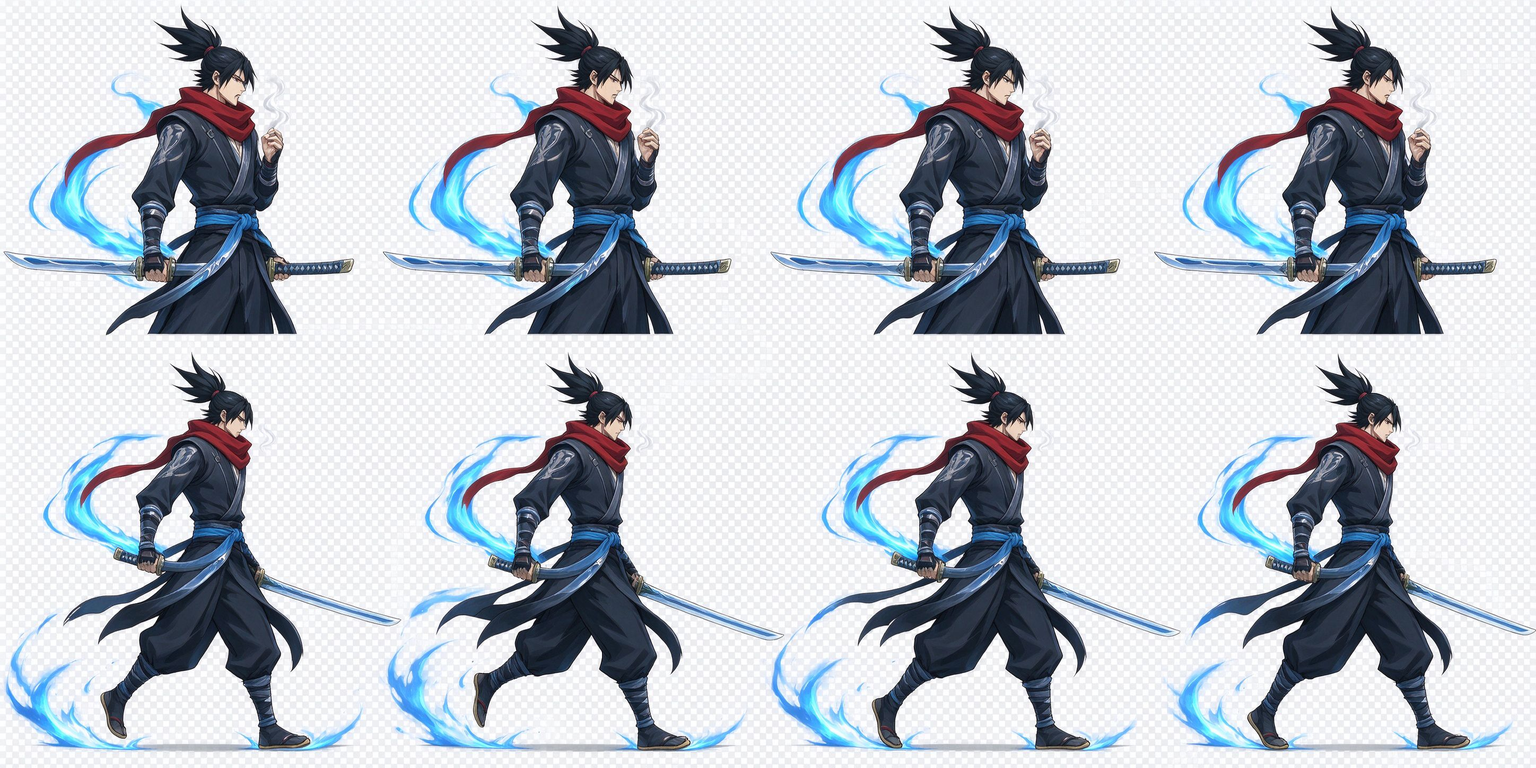
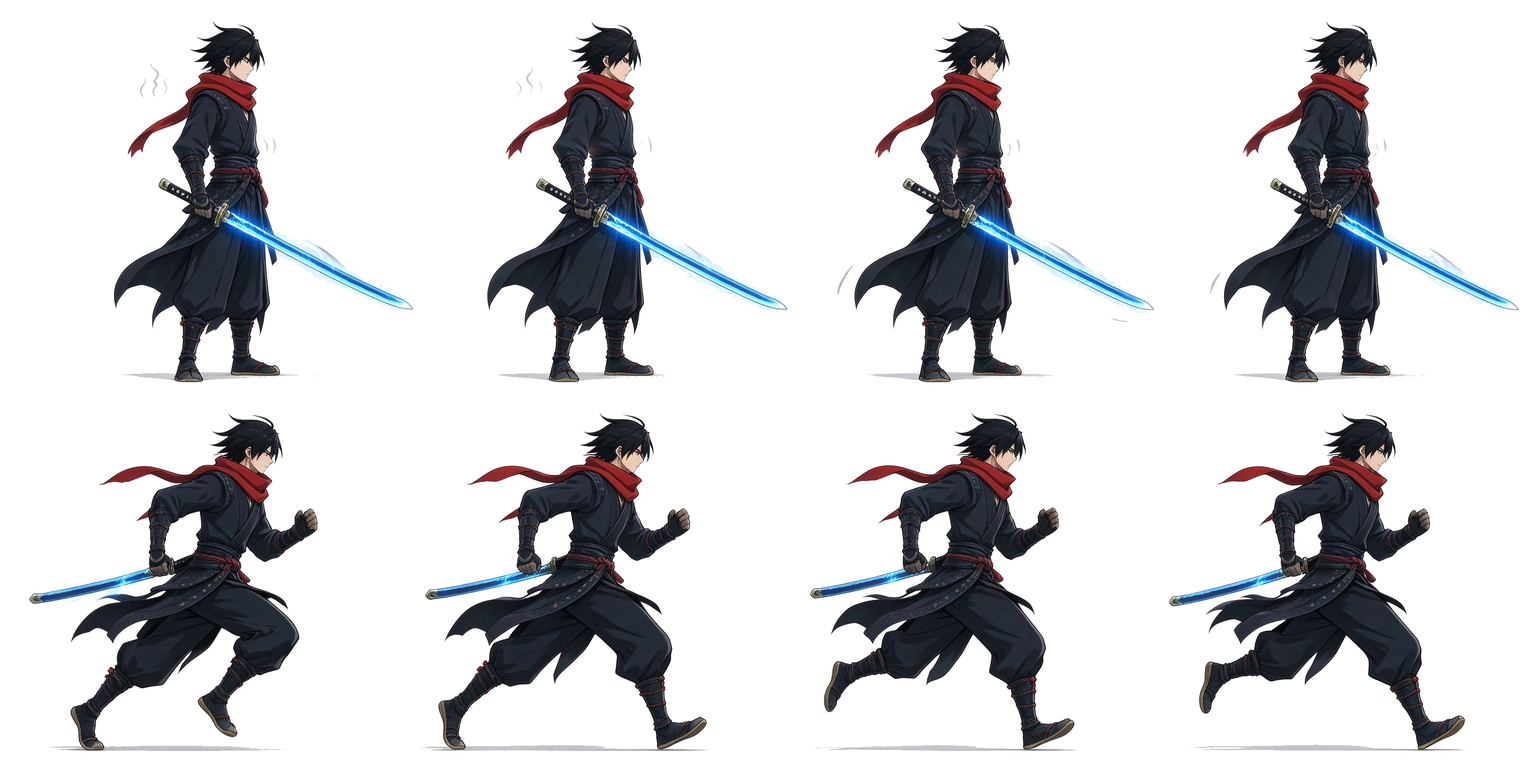
feat: 新sprite sheet帧动画(去白边)+待机4帧走路4帧

diff --git a/yasuo-run.html b/yasuo-run.html
@@ -1254,41 +1254,60 @@ function draw(){
     }
   }
 
-  // 玩家
+  // 玩家 - sprite sheet帧动画
+  var sheet = IMG.yasuo_sheet;
   var im3 = IMG.yasuo;
-  var ps = 85;
-  var pDash = 0;
-  if(player.attackAnim > 0){ pDash = Math.sin(player.attackAnim / 0.18 * Math.PI) * 18; }
-  var pDrawX = player.x + Math.cos(player.attackDir) * pDash;
-  var pDrawY = player.y + (player.moving ? Math.sin(tNow*12)*-4 : Math.sin(tNow*2.5)*2);
-  var pLean = player.moving ? Math.sin(tNow*12)*0.1 : 0;
-  // 阴影
-  ctx.fillStyle = "rgba(0,0,0,0.4)";
-  ctx.beginPath(); ctx.ellipse(player.x, player.y+40, 26, 8, 0, 0, 6.283); ctx.fill();
-  // 攻击斩击
-  if(player.attackAnim > 0 && im3){
+  var ps = 90;
+  if(sheet && sheet.width > 100){
+    var fw = sheet.width / 4, fh = sheet.height / 2;
+    var fRow = player.moving ? 1 : 0;
+    var fSpeed = player.moving ? 8 : 3;
+    var fCol = Math.floor(tNow * fSpeed) % 4;
+    var pDash = 0;
+    if(player.attackAnim > 0){ pDash = Math.sin(player.attackAnim / 0.18 * Math.PI) * 16; }
+    var pDrawX = player.x + Math.cos(player.attackDir) * pDash;
+    var pDrawY = player.y;
+    ctx.fillStyle = "rgba(0,0,0,0.4)";
+    ctx.beginPath(); ctx.ellipse(player.x, player.y+42, 26, 8, 0, 0, 6.283); ctx.fill();
+    // 攻击风刃
+    if(player.attackAnim > 0){
+      ctx.save();
+      ctx.translate(pDrawX, pDrawY);
+      ctx.rotate(player.attackDir);
+      var sa = player.attackAnim / 0.18;
+      ctx.globalAlpha = sa * 0.9;
+      ctx.strokeStyle = "#7fd8ff"; ctx.lineWidth = 6;
+      ctx.shadowColor = "#7fd8ff"; ctx.shadowBlur = 25;
+      ctx.beginPath(); ctx.arc(0, 0, 60, -0.9, 0.9); ctx.stroke();
+      ctx.globalAlpha = sa * 0.5; ctx.lineWidth = 14;
+      ctx.beginPath(); ctx.arc(0, 0, 48, -0.6, 0.6); ctx.stroke();
+      ctx.restore();
+    }
     ctx.save();
     ctx.translate(pDrawX, pDrawY);
-    ctx.rotate(player.attackDir);
-    var slashAlpha = player.attackAnim / 0.18;
-    ctx.globalAlpha = slashAlpha * 0.9;
-    ctx.strokeStyle = "#7fd8ff";
-    ctx.lineWidth = 6;
-    ctx.shadowColor = "#7fd8ff"; ctx.shadowBlur = 25;
-    ctx.beginPath();
-    ctx.arc(0, 0, 60, -0.9, 0.9);
-    ctx.stroke();
-    ctx.globalAlpha = slashAlpha * 0.5;
-    ctx.lineWidth = 14;
-    ctx.beginPath();
-    ctx.arc(0, 0, 48, -0.6, 0.6);
-    ctx.stroke();
+    if(gmGod){ ctx.shadowColor = "#ffd700"; ctx.shadowBlur = 20; }
+    if(player.hitCd > 0 && Math.floor(tNow*20)%2===0) ctx.globalAlpha = 0.3;
+    ctx.drawImage(sheet, fCol*fw, fRow*fh, fw, fh, -ps/2, -ps/2, ps, ps);
     ctx.restore();
-  }
-  if(im3){
+  } else if(im3){
+    var pDash2 = 0;
+    if(player.attackAnim > 0){ pDash2 = Math.sin(player.attackAnim / 0.18 * Math.PI) * 16; }
+    var pDrawX2 = player.x + Math.cos(player.attackDir) * pDash2;
+    ctx.fillStyle = "rgba(0,0,0,0.4)";
+    ctx.beginPath(); ctx.ellipse(player.x, player.y+40, 26, 8, 0, 0, 6.283); ctx.fill();
+    if(player.attackAnim > 0){
+      ctx.save();
+      ctx.translate(pDrawX2, player.y);
+      ctx.rotate(player.attackDir);
+      var sa2 = player.attackAnim / 0.18;
+      ctx.globalAlpha = sa2 * 0.9;
+      ctx.strokeStyle = "#7fd8ff"; ctx.lineWidth = 6;
+      ctx.shadowColor = "#7fd8ff"; ctx.shadowBlur = 25;
+      ctx.beginPath(); ctx.arc(0, 0, 60, -0.9, 0.9); ctx.stroke();
+      ctx.restore();
+    }
     ctx.save();
-    ctx.translate(pDrawX, pDrawY);
-    ctx.rotate(pLean);
+    ctx.translate(pDrawX2, player.y);
     if(gmGod){ ctx.shadowColor = "#ffd700"; ctx.shadowBlur = 20; }
     if(player.hitCd > 0 && Math.floor(tNow*20)%2===0) ctx.globalAlpha = 0.3;
     ctx.drawImage(im3, -ps/2, -ps/2, ps, ps);
